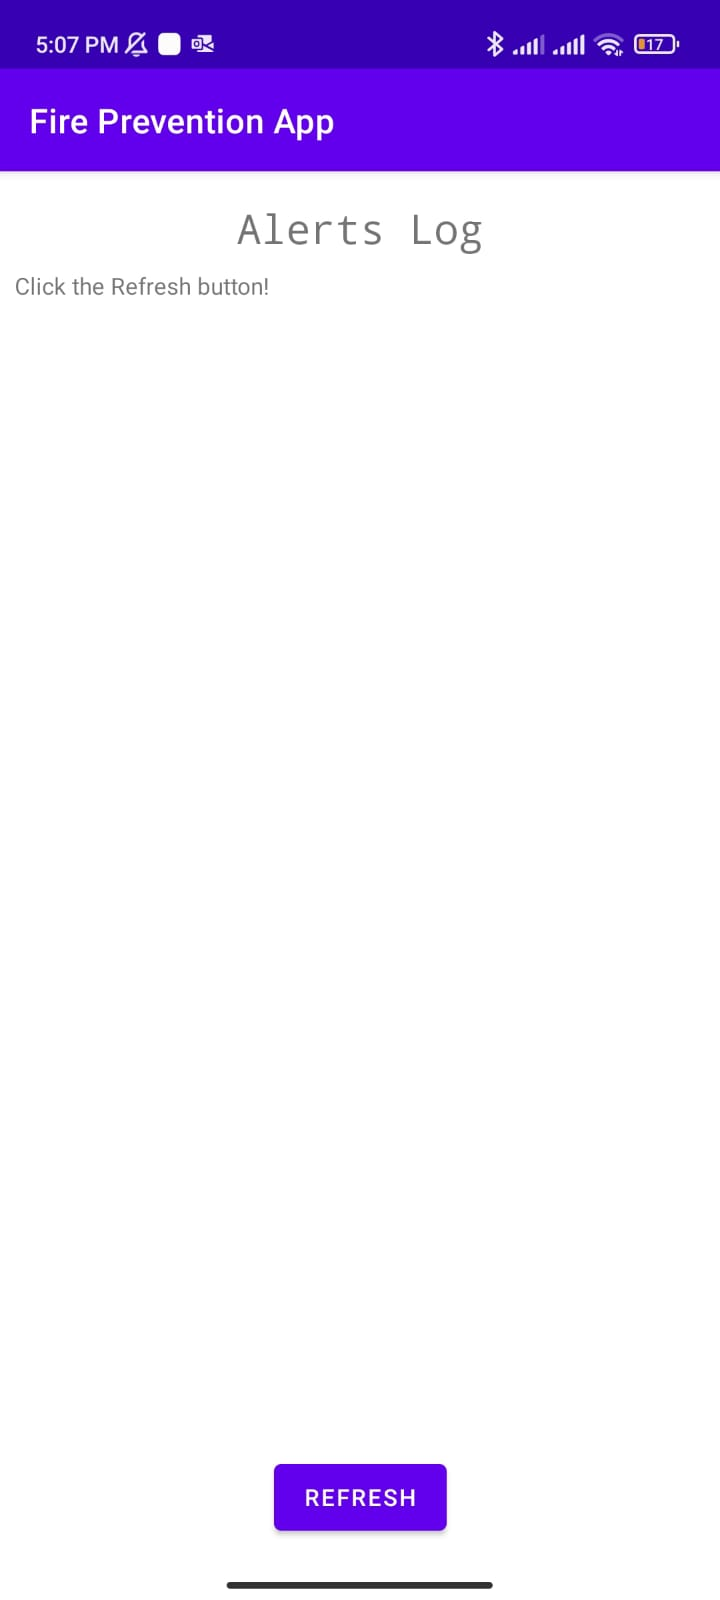
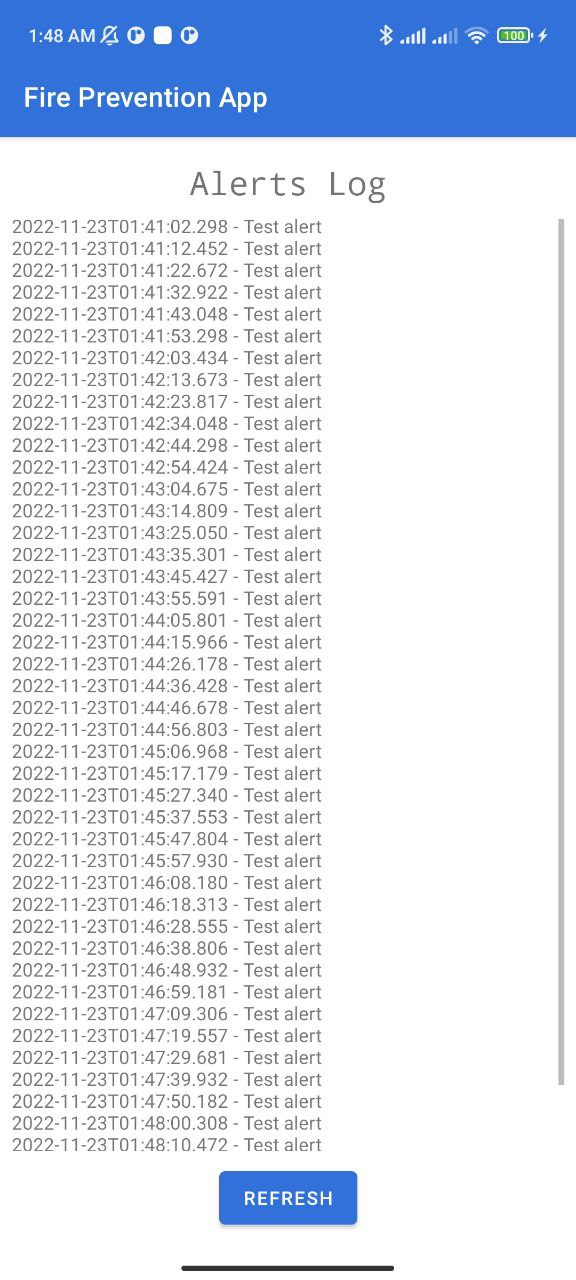
Update the Problem Solution section and add new images

Changed region(s): [[0.0, 0.1562, 0.625, 0.9688], [0.0, 0.0, 1.0, 0.125], [0.9688, 0.1562, 1.0, 0.8438]]

diff --git a/paper/04-ProblemSolution.md b/paper/04-ProblemSolution.md
@@ -56,13 +56,24 @@ they are processed to be shown to the user. The data gathering
 is periodical, this in order to mantain a real-time 
 information flow.
 
-![Parameters shown by the application](images/application_parameters.jpg){#fig:4}
+![Temperature in real time expressed by the application](images/application_temperature.jpg){#fig:4}
 
-![Alerts shown by the application](images/application_alerts.jpg){#fig:5}
+![Humidity in real time expressed by the application](images/application_humidity.jpg){#fig:5}
 
-The figures [@fig:4] and [@fig:5] show the information 
-presented in the application, as well as the format used to 
-demonstrate the data and the alerts given by the sensors.
+![Gas in real time expressed by the application](images/application_gas.jpg){#fig:6}
+
+The figures [@fig:4], [@fig:5] and [@fig:6] show the information 
+presented in the application. This information provides an ample 
+visualization of the data recollected by the temperature, humidity 
+and gas sensors.
+
+![Alerts shown by the application](images/application_alerts.jpg){#fig:7}
+
+On the other hand, the information shown in [@fig:7] contains the 
+alerts thrown by the application periodically in which the user can 
+visualize if there is an environmental parameter that exceeds the normal 
+or usual amount, such as an increase in temperature, or anything along 
+the lines.
 
 The Arduino source code for the device includes the DHT11 
 library "DHT.h" to connect to the humidity and temperature 
@@ -73,6 +84,6 @@ application, in order to show the given parameters to the user.
 
 ## Diagrams
 
-![Diagram of the architecture of the prototype](images/diagram.jpg){#fig:6}
+![Diagram of the architecture of the prototype](images/diagram.jpg){#fig:8}
 
-The device's architecture is shown in [@fig:6], in which the humidity, temperature and gas sensor are conected to the Arduino UNO board and peek out of their container to be exposed to the environment and collect data. The bluetooth sensor by which the board communicates with the application is located in a small gap in the front face of the container, located close to the exterior. 
+The device's architecture is shown in [@fig:8], in which the humidity, temperature and gas sensor are conected to the Arduino UNO board and peek out of their container to be exposed to the environment and collect data. The bluetooth sensor by which the board communicates with the application is located in a small gap in the front face of the container, located close to the exterior. 
